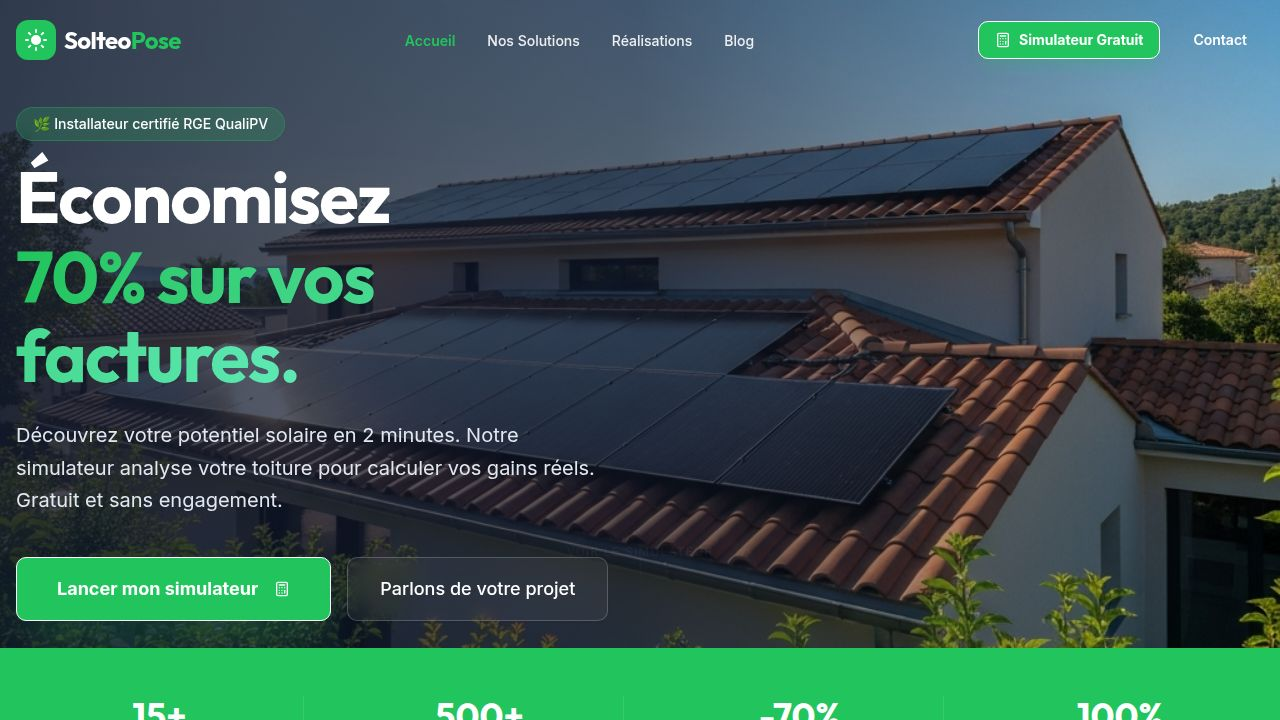
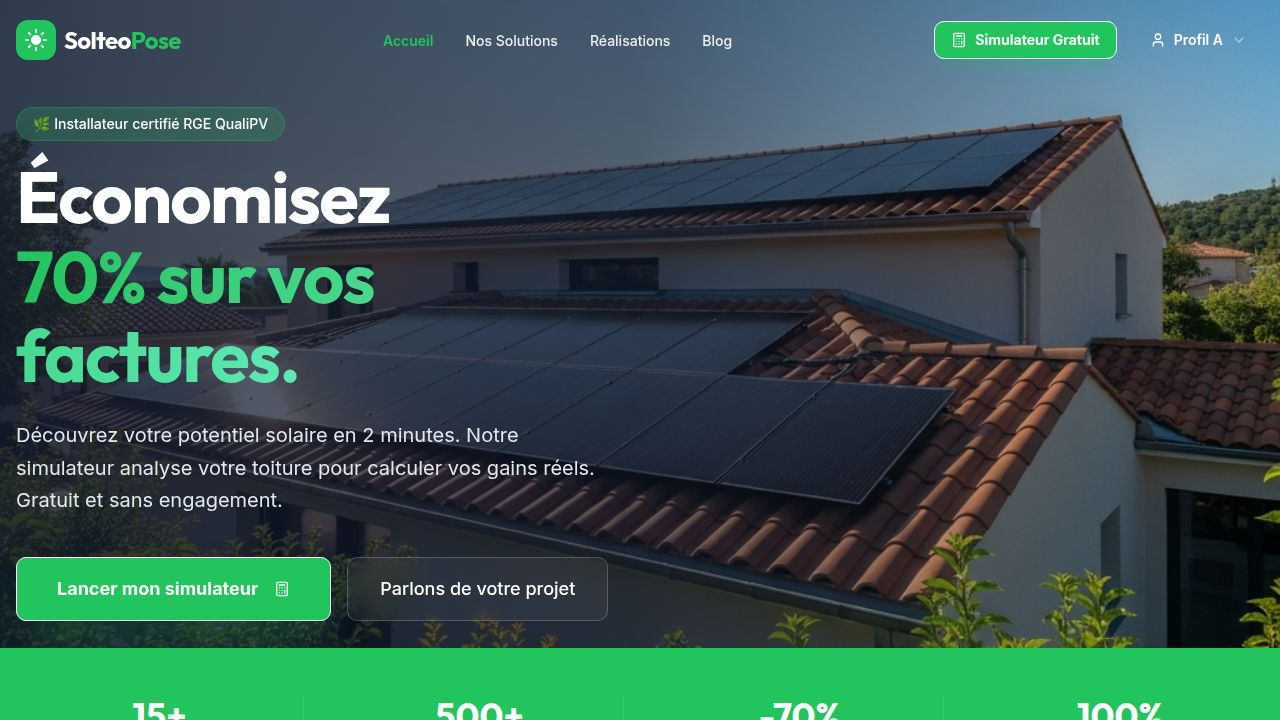
Add profile selector and remove simulator arrow
Implement a user profile selector in the navbar and remove the simulator arrow from the hero section. Update simulator component to dynamically load based on selected profile.

Replit-Commit-Author: Agent
Replit-Commit-Session-Id: c6126106-73b3-4094-ae3c-2d8b99f7b5ee
Replit-Commit-Checkpoint-Type: full_checkpoint
Replit-Commit-Event-Id: 1c5abcfa-cc7d-4898-a76c-1355992ad292
Replit-Commit-Screenshot-Url: https://storage.googleapis.com/screenshot-production-us-central1/944ee539-3f62-4e3e-bd41-ea3d7c09de6f/c6126106-73b3-4094-ae3c-2d8b99f7b5ee/7mjZ7ye
Replit-Helium-Checkpoint-Created: true

Changed region(s): [[0.7188, 0.0306, 0.9688, 0.0917], [0.2812, 0.0306, 0.5938, 0.0611]]

diff --git a/client/src/components/layout/Navbar.tsx b/client/src/components/layout/Navbar.tsx
@@ -1,8 +1,16 @@
 import { useState, useEffect } from "react";
 import { Link, useLocation } from "wouter";
-import { Menu, X, Sun, Calculator } from "lucide-react";
+import { Menu, X, Sun, Calculator, User, ChevronDown } from "lucide-react";
 import { Button } from "@/components/ui/button";
 import { Sheet, SheetContent, SheetTrigger } from "@/components/ui/sheet";
+import {
+  DropdownMenu,
+  DropdownMenuContent,
+  DropdownMenuItem,
+  DropdownMenuLabel,
+  DropdownMenuSeparator,
+  DropdownMenuTrigger,
+} from "@/components/ui/dropdown-menu";
 import { cn } from "@/lib/utils";
 
 const links = [
@@ -12,9 +20,17 @@ const links = [
   { href: "/blog", label: "Blog" },
 ];
 
+const profiles = [
+  { id: "A", name: "Profil A", companyId: "237959bb-84ac-438c-b8eb-7a6c8ca2cda5" },
+  { id: "B", name: "Profil B", companyId: "b-profile-placeholder-id" },
+  { id: "C", name: "Profil C", companyId: "c-profile-placeholder-id" },
+  { id: "D", name: "Profil D", companyId: "d-profile-placeholder-id" },
+];
+
 export function Navbar() {
   const [isScrolled, setIsScrolled] = useState(false);
   const [location] = useLocation();
+  const [currentProfile, setCurrentProfile] = useState(profiles[0]);
 
   useEffect(() => {
     const handleScroll = () => {
@@ -23,6 +39,11 @@ export function Navbar() {
     window.addEventListener("scroll", handleScroll);
     return () => window.removeEventListener("scroll", handleScroll);
   }, []);
+
+  // Sync profile with local storage or state to be used in simulator
+  useEffect(() => {
+    window.dispatchEvent(new CustomEvent('profileChanged', { detail: currentProfile }));
+  }, [currentProfile]);
 
   const scrollToSimulator = (e: React.MouseEvent) => {
     if (location === "/") {
@@ -60,7 +81,7 @@ export function Navbar() {
         </Link>
 
         {/* Desktop Nav */}
-        <div className="hidden md:flex items-center gap-8">
+        <div className="hidden lg:flex items-center gap-8">
           {links.map((link) => (
             <Link key={link.href} href={link.href}>
               <a
@@ -77,7 +98,7 @@ export function Navbar() {
           ))}
         </div>
 
-        {/* CTA */}
+        {/* CTA & Profile Selector */}
         <div className="hidden md:flex items-center gap-4">
            <Link href="/simulateur">
             <a onClick={scrollToSimulator}>
@@ -87,20 +108,38 @@ export function Navbar() {
               </Button>
             </a>
           </Link>
-          <Link href="/contact">
-            <Button variant="ghost" className={cn(
-              "font-semibold",
-              !isScrolled && location === "/" ? "text-white hover:bg-white/10" : "text-foreground"
-            )}>
-              Contact
-            </Button>
-          </Link>
+
+          <DropdownMenu>
+            <DropdownMenuTrigger asChild>
+              <Button variant="ghost" className={cn(
+                "gap-2 font-semibold",
+                !isScrolled && location === "/" ? "text-white hover:bg-white/10" : "text-foreground"
+              )}>
+                <User className="h-4 w-4" />
+                {currentProfile.name}
+                <ChevronDown className="h-3 w-3 opacity-50" />
+              </Button>
+            </DropdownMenuTrigger>
+            <DropdownMenuContent align="end" className="w-48">
+              <DropdownMenuLabel>Se connecter en tant que</DropdownMenuLabel>
+              <DropdownMenuSeparator />
+              {profiles.map((profile) => (
+                <DropdownMenuItem 
+                  key={profile.id}
+                  onClick={() => setCurrentProfile(profile)}
+                  className={cn(currentProfile.id === profile.id && "bg-primary/10 text-primary")}
+                >
+                  {profile.name}
+                </DropdownMenuItem>
+              ))}
+            </DropdownMenuContent>
+          </DropdownMenu>
         </div>
 
         {/* Mobile Menu */}
         <Sheet>
           <SheetTrigger asChild>
-            <Button variant="ghost" size="icon" className={cn("md:hidden", !isScrolled && location === "/" && "text-white hover:bg-white/10")}>
+            <Button variant="ghost" size="icon" className={cn("lg:hidden", !isScrolled && location === "/" && "text-white hover:bg-white/10")}>
               <Menu className="h-6 w-6" />
             </Button>
           </SheetTrigger>
@@ -125,9 +164,22 @@ export function Navbar() {
                     </Button>
                   </a>
                 </Link>
-                <Link href="/contact">
-                  <Button variant="outline" className="w-full">Contactez-nous</Button>
-                </Link>
+                
+                <div className="pt-4 border-t border-border">
+                  <p className="text-sm font-medium text-muted-foreground mb-2">Profil sélectionné</p>
+                  <div className="grid grid-cols-2 gap-2">
+                    {profiles.map((profile) => (
+                      <Button 
+                        key={profile.id}
+                        variant={currentProfile.id === profile.id ? "default" : "outline"}
+                        size="sm"
+                        onClick={() => setCurrentProfile(profile)}
+                      >
+                        {profile.name}
+                      </Button>
+                    ))}
+                  </div>
+                </div>
               </div>
             </div>
           </SheetContent>

diff --git a/client/src/pages/Home.tsx b/client/src/pages/Home.tsx
@@ -4,9 +4,19 @@ import { Calculator, ArrowRight, CheckCircle2, Leaf, PiggyBank, Zap, ShieldCheck
 import { Link, useLocation } from "wouter";
 import heroImage from "@assets/generated_images/modern_solar_panels_on_a_french_residential_roof.png";
 import { motion } from "framer-motion";
+import { useState, useEffect } from "react";
 
 export default function Home() {
   const [, setLocation] = useLocation();
+  const [companyId, setCompanyId] = useState("237959bb-84ac-438c-b8eb-7a6c8ca2cda5");
+
+  useEffect(() => {
+    const handleProfileChange = (e: any) => {
+      setCompanyId(e.detail.companyId);
+    };
+    window.addEventListener('profileChanged', handleProfileChange);
+    return () => window.removeEventListener('profileChanged', handleProfileChange);
+  }, []);
 
   const scrollToSimulator = (e: React.MouseEvent) => {
     e.preventDefault();
@@ -85,8 +95,8 @@ export default function Home() {
           transition={{ delay: 1, duration: 1 }}
           className="absolute bottom-8 left-1/2 -translate-x-1/2 text-white/50 flex flex-col items-center gap-2"
         >
-          <span className="text-xs uppercase tracking-widest">Voir le simulateur</span>
-          <div className="w-[1px] h-12 bg-gradient-to-b from-white/50 to-transparent animate-bounce" />
+          <span className="text-xs uppercase tracking-widest text-center">Voir le simulateur</span>
+          <div className="w-[1px] h-12 bg-gradient-to-b from-white/50 to-transparent" />
         </motion.div>
       </section>
 
@@ -247,7 +257,8 @@ export default function Home() {
 
           <div className="max-w-4xl mx-auto bg-white rounded-3xl shadow-2xl overflow-hidden border border-slate-100">
             <iframe 
-              src="https://app.solteo.fr/lead-magnet?companyId=237959bb-84ac-438c-b8eb-7a6c8ca2cda5" 
+              key={companyId}
+              src={`https://app.solteo.fr/lead-magnet?companyId=${companyId}`} 
               title="Formulaire Estimation Solaire Solteo" 
               width="100%" 
               height="870px" 

diff --git a/client/src/pages/Simulator.tsx b/client/src/pages/Simulator.tsx
@@ -1,4 +1,16 @@
+import { useState, useEffect } from "react";
+
 export default function Simulator() {
+  const [companyId, setCompanyId] = useState("237959bb-84ac-438c-b8eb-7a6c8ca2cda5");
+
+  useEffect(() => {
+    const handleProfileChange = (e: any) => {
+      setCompanyId(e.detail.companyId);
+    };
+    window.addEventListener('profileChanged', handleProfileChange);
+    return () => window.removeEventListener('profileChanged', handleProfileChange);
+  }, []);
+
   return (
     <div className="pt-24 pb-16 min-h-screen bg-slate-50">
       <div className="container mx-auto px-4">
@@ -13,7 +25,8 @@ export default function Simulator() {
 
         <div className="max-w-4xl mx-auto bg-white rounded-3xl shadow-2xl overflow-hidden border border-slate-100">
           <iframe 
-            src="https://app.solteo.fr/lead-magnet?companyId=237959bb-84ac-438c-b8eb-7a6c8ca2cda5" 
+            key={companyId}
+            src={`https://app.solteo.fr/lead-magnet?companyId=${companyId}`} 
             title="Formulaire Estimation Solaire Solteo" 
             width="100%" 
             height="870px" 
